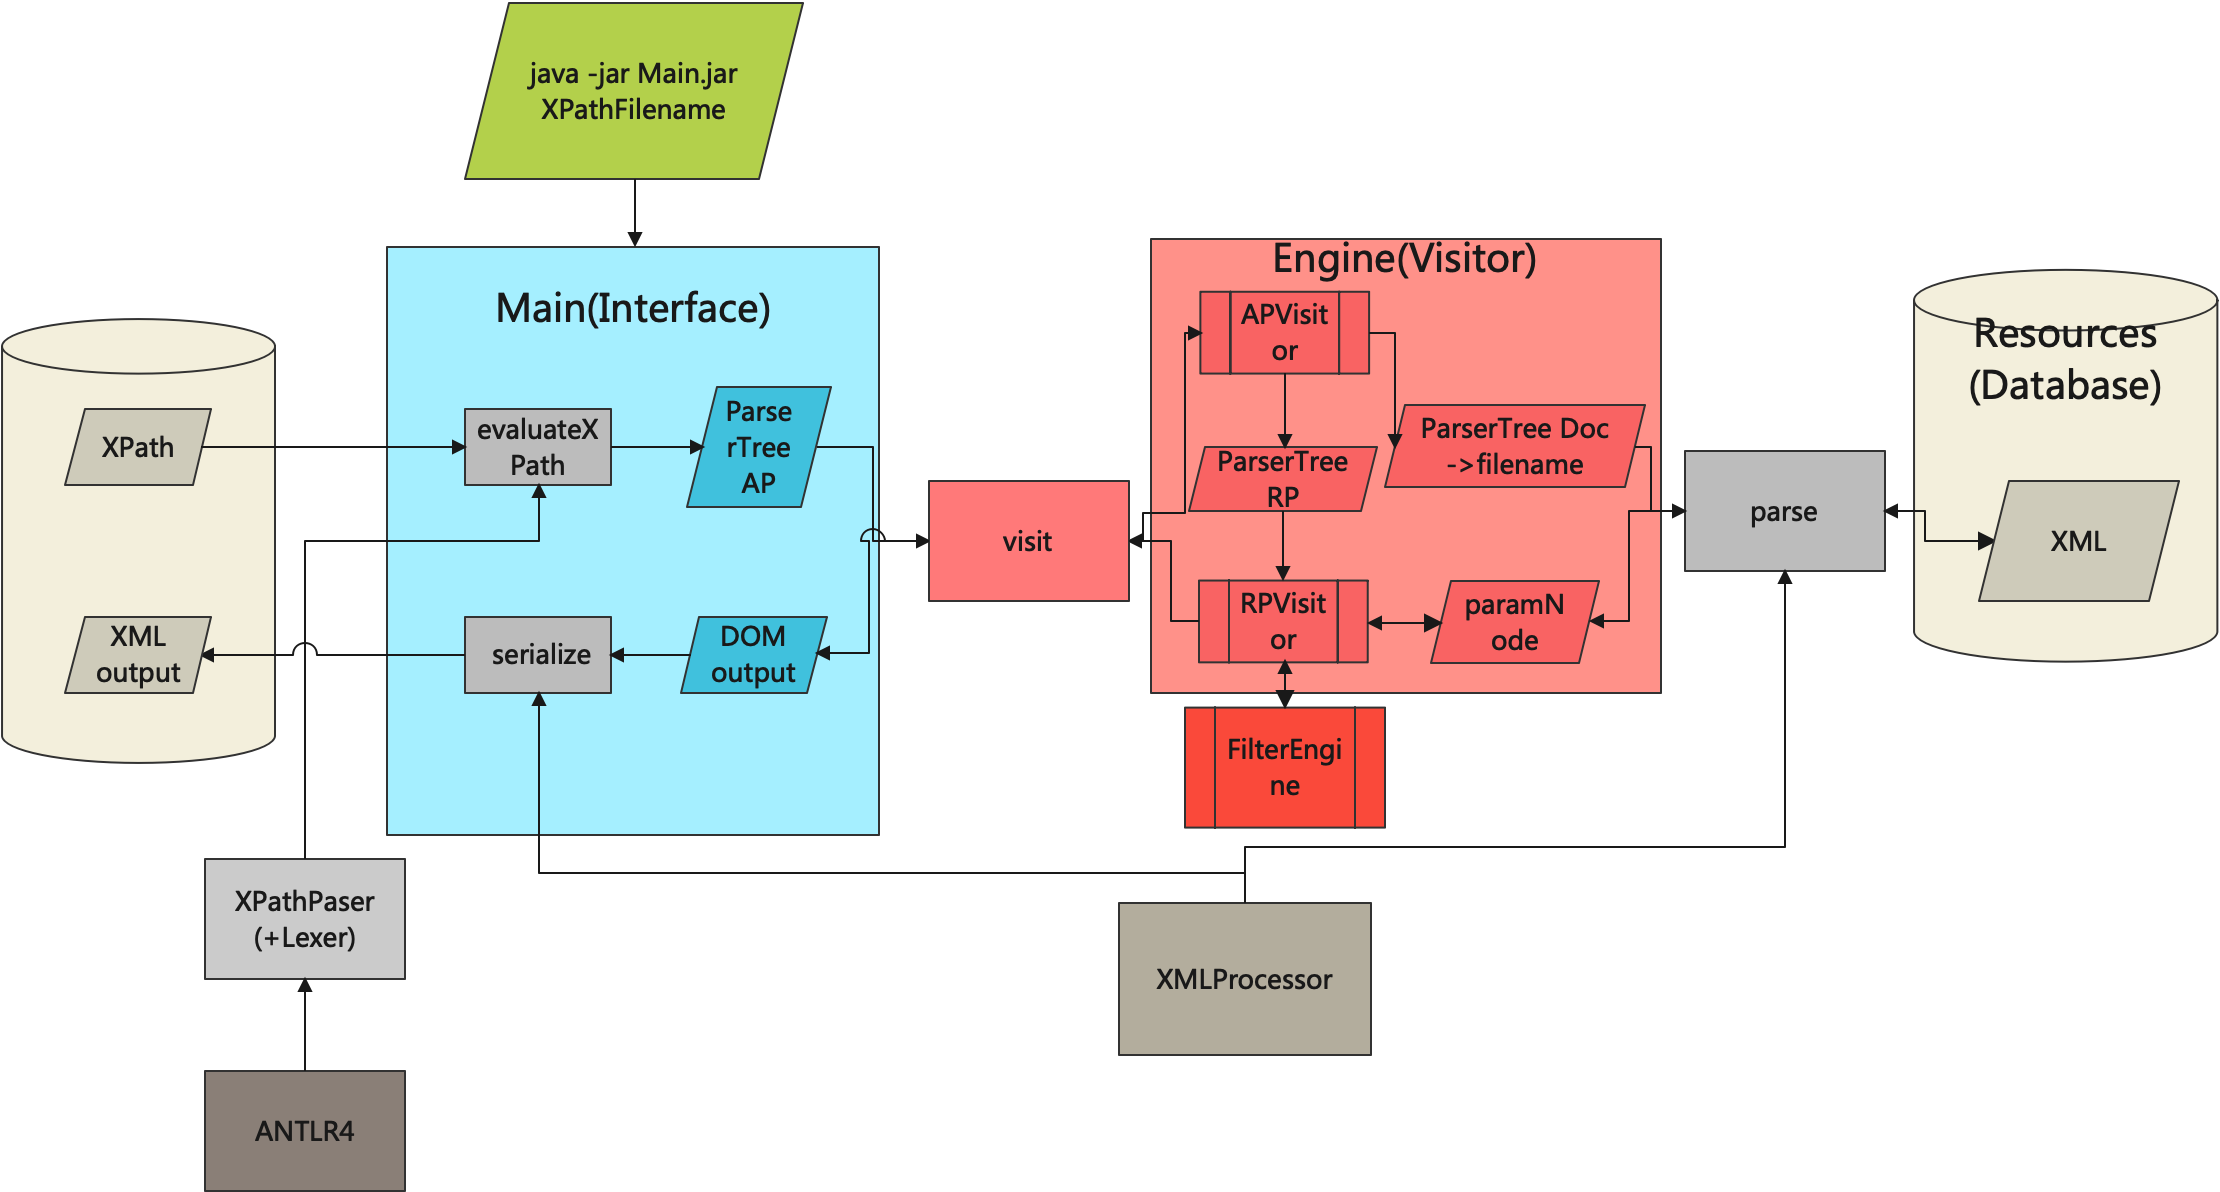
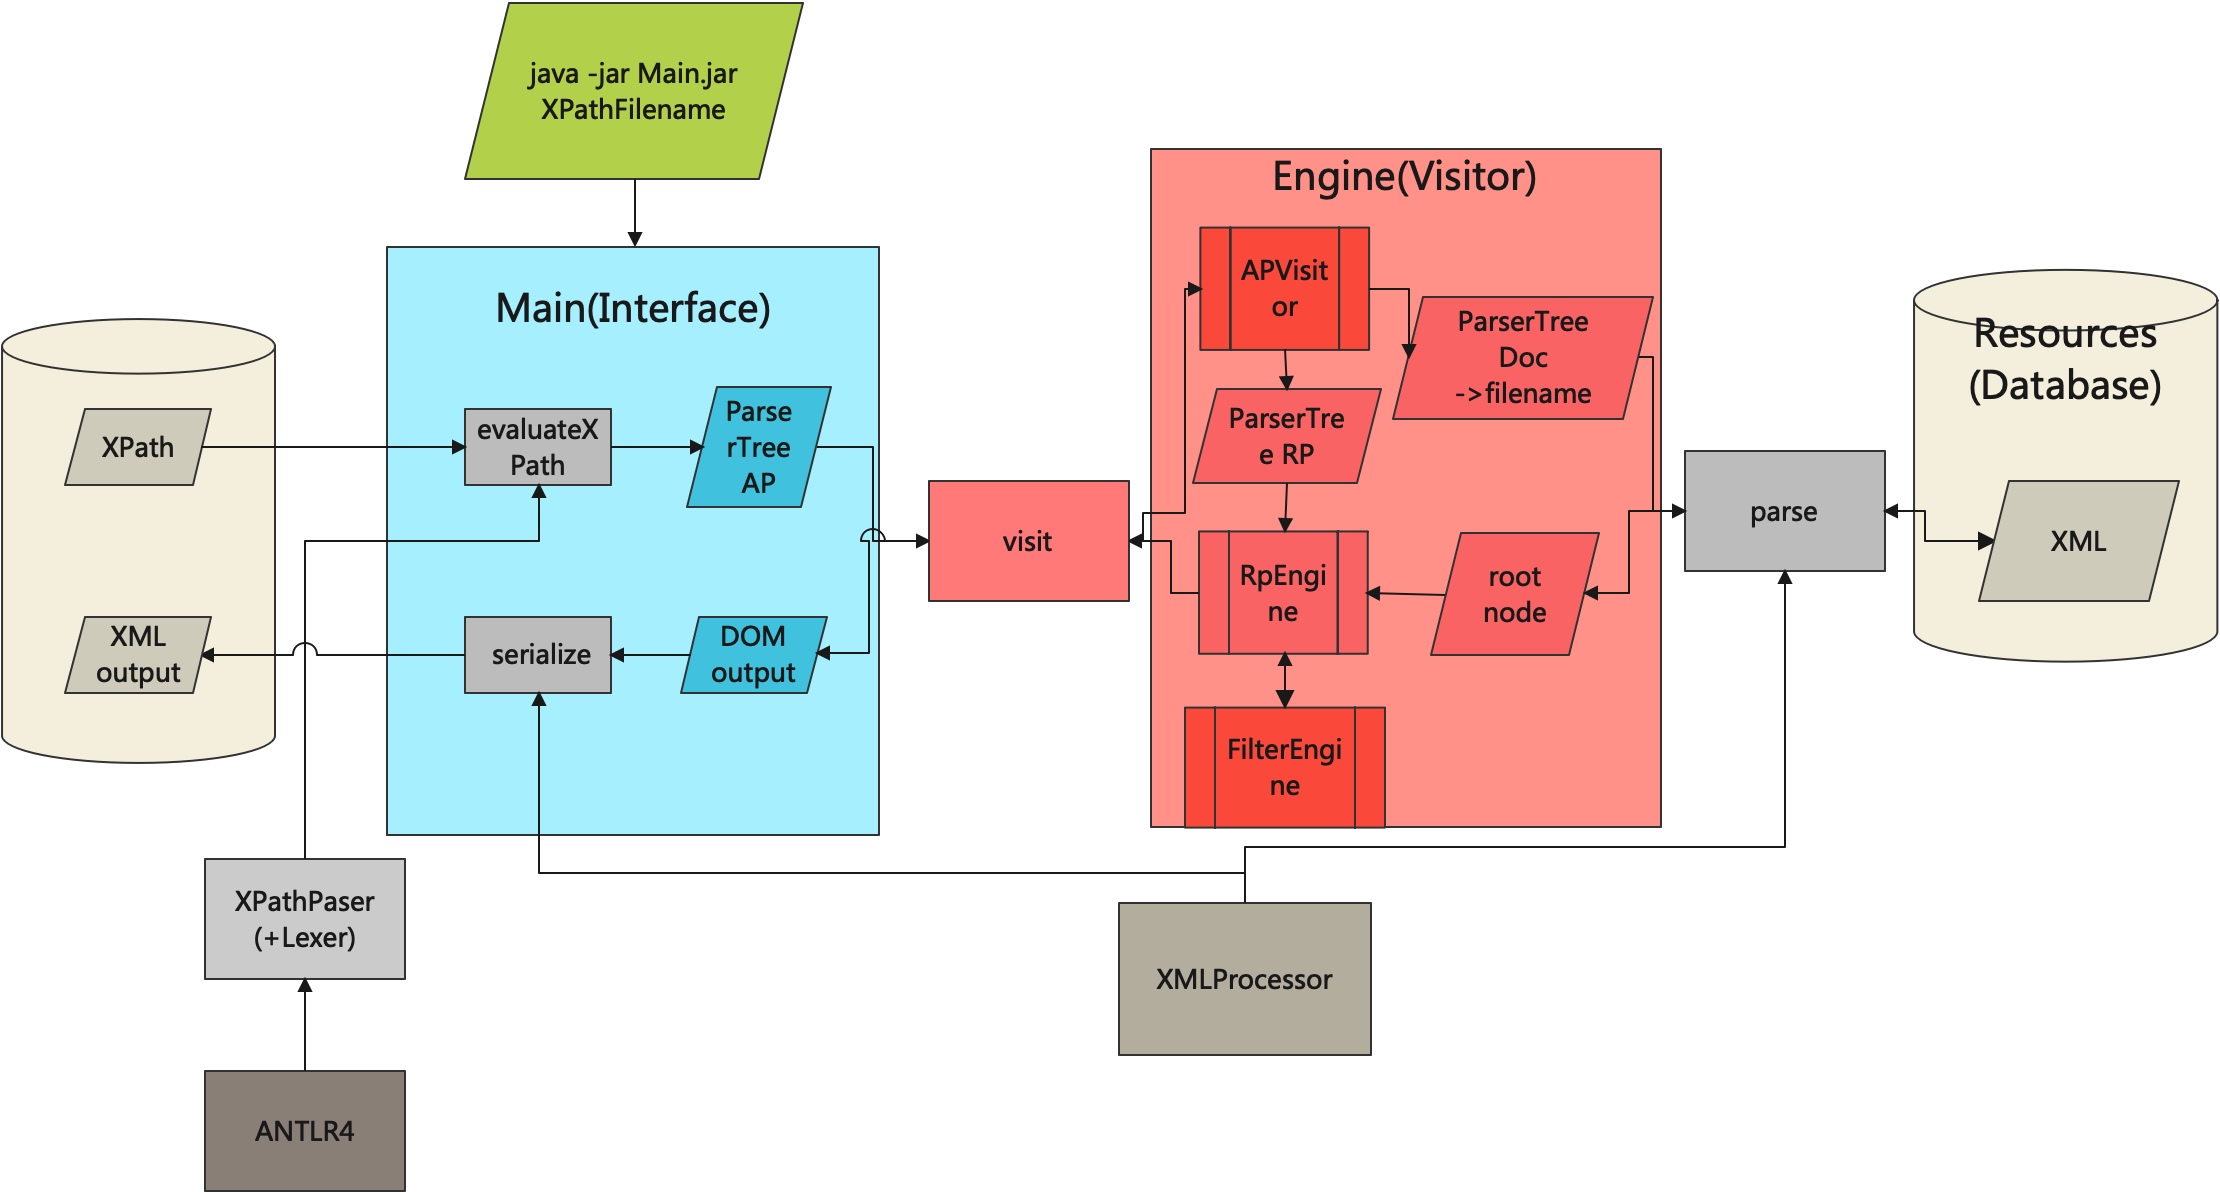
Update README.

Changed region(s): [[0.4973, 0.1242, 0.7459, 0.7139]]

diff --git a/README.md b/README.md
@@ -22,6 +22,11 @@ The main interface, give argvs, get output xml file.
 
 ### Engine(Visitor)
 The engine, put parser tree(AST) into visit method of the engine, get the output DOM nodes.
+The Engine itself only implement ap and doc visitor, then using RpEngine to visit rp.
+
+### RpEngine(Visitor)
+The subengine, put in rp, get output DOM nodes. 
+The RpEngine itself only implement rp visitor, then using FilterEngine to visit f.
 
 ### [NEW!] FilterEngine(Visitor)
 The subengine, put in filterContext, get the Boolean indicates whether the filter hold at paramNode.
